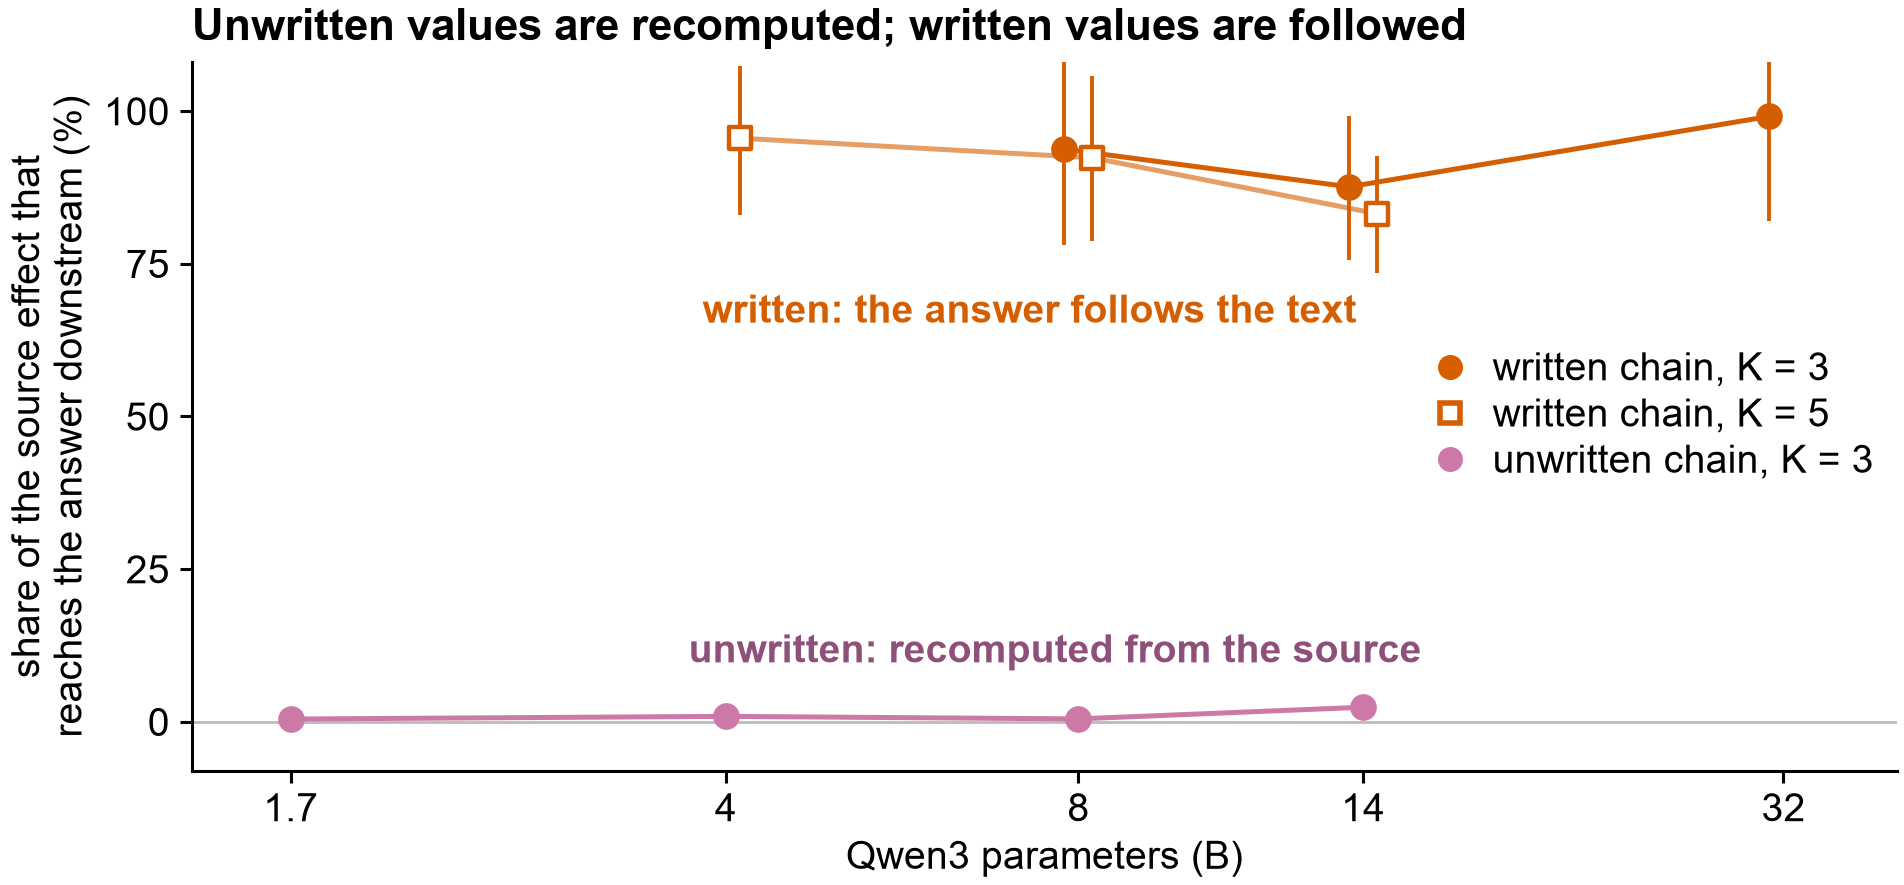
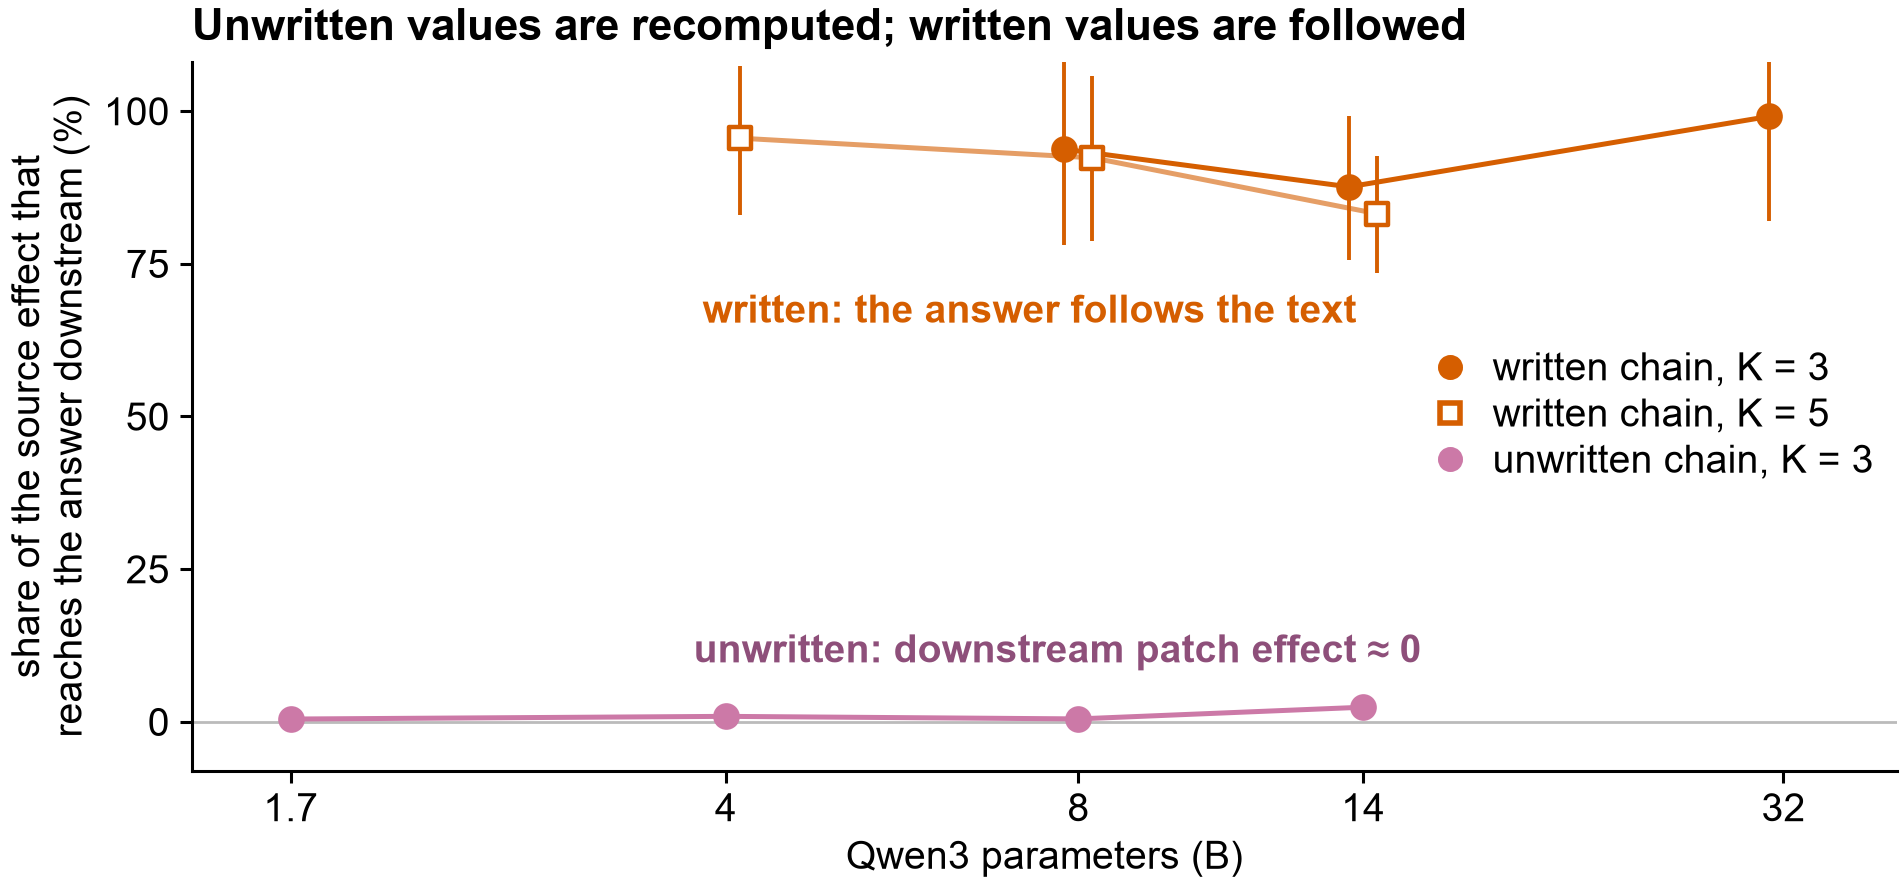
Review round 3: 27B window curve (gradual shift, steepest across window); generated-text relay named with its late positions; recurrent wording as donor entry; Table 1 exceptions; figure labels; latent-reasoning caveat

Changed region(s): [[0.3409, 0.7017, 0.7437, 0.7627]]

diff --git a/manuscript/figures/make_iclr_figures.py b/manuscript/figures/make_iclr_figures.py
@@ -422,7 +422,7 @@ def fig1():
           Line2D([], [], ls="none", marker="o", ms=4, mfc="#444444", mec="#444444"),
           Line2D([], [], ls="none", marker="^", ms=4, mfc="#444444", mec="#444444"),
           Line2D([], [], ls="none", marker="s", ms=4, mfc="white", mec="#444444")]
-    fig.legend(hs, ["looked up (source or stored copy)", "relayed along intermediate positions", "Qwen3",
+    fig.legend(hs, ["looked up (source, stored copy or late lookup)", "relayed along intermediate positions", "Qwen3",
                     "Qwen3.5", "Gemma 3"], loc="lower center", bbox_to_anchor=(0.5, -0.005), ncol=5,
                handletextpad=0.2, columnspacing=0.9)
     save(fig, "iclr_fig1_overview.png")
@@ -481,7 +481,7 @@ def fig2():
             ax.set_ylabel("share of persistence (%)")
         else:
             ax.set_yticklabels([])
-    fig.text(0.0, 0.995, "A   Direct retrieval dominates in every run; early relay ≤ 1%", fontsize=8,
+    fig.text(0.0, 0.995, "A   Direct retrieval dominates, except Gemma 3 27B (plain), where the stored copy takes over; early relay ≤ 1%", fontsize=8,
              weight="bold", va="top")
     hs = [Rectangle((0, 0), 1, 1, color=c) for _, _, c in parts]
     hs.append(Rectangle((0, 0), 1, 1, color=COL["interaction"]))
@@ -1068,7 +1068,7 @@ def fig4():
         axc.barh(i, stored - relayed, 0.62, left=relayed, color=COL["storage"], lw=0,
                  label="stored after the list" if first else None)
         axc.barh(i, 100 - stored, 0.62, left=stored, color=COL["retrieval"], lw=0, alpha=0.85,
-                 label="re-derived from the list" if first else None)
+                 label="not reproduced by the post-list patch" if first else None)
         if np.isfinite(st[1]):
             axc.plot([st[1], st[2]], [i, i], color=COL["ink"], lw=0.7)
         axc.text(max(st[2], stored) + 1.5, i, f"{stored:.0f}%", fontsize=7, va="center", ha="left",
@@ -1141,7 +1141,7 @@ def fig5():
         ax.plot([lx(p[0]) for p in unw], [p[1][0] for p in unw], "-", color=COL["relay"], lw=0.9, zorder=2)
         for sz, v in unw:
             dot(ax, lx(sz), v, COL["relay"], "o", True, s=16)
-        ax.text(lx(unw[-1][0]) + 0.05, unw[-1][1][0] + 6, "unwritten: recomputed from the source",
+        ax.text(lx(unw[-1][0]) + 0.05, unw[-1][1][0] + 6, "unwritten: downstream patch effect \u2248 0",
                 fontsize=7, color="#8E4F7A", ha="right", va="bottom", weight="bold")
     for K, mk, off in (("3", "o", -0.012), ("5", "s", 0.012)):
         pts = wr.get(K, [])
